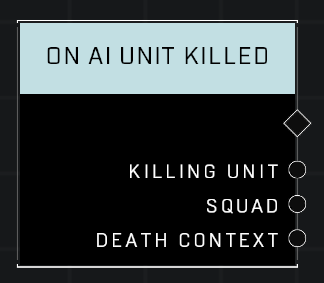
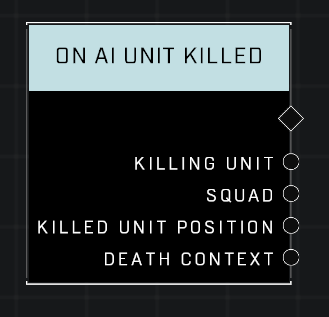
New nodes, Operation Infinite (2025-11-18)
New nodes and their pages, as well as added properties and new images for existing nodes that changed in the update. Summary also updated. Found and fixed one typo on an existing page.

diff --git a/scripting/nodes/variables-advanced/object-list-variable.md b/scripting/nodes/variables-advanced/object-list-variable.md
@@ -67,6 +67,36 @@ Nodes fall into two basic categories: Data and Execution. This node supplies Dat
 
 ***
 
+## Get Object List Variable Without Refresh
+
+![](../../../.gitbook/assets/get-object-list-variable-without-refresh.png)
+
+## Description
+
+This node works similarly to **Get Object List Variable**. This version of the node is meant to be used with objects created through the **Spawn Mode Object** node, particularly when an object reference is used to make multiple copies of an object, and they are later stored as variables.
+
+## Node Type
+
+Nodes fall into two basic categories: Data and Execution. This node supplies Data for an Execution node.
+
+## Inputs
+
+| Input      | Type   | Required | Description                                                          |
+| ---------- | ------ | -------- | -------------------------------------------------------------------- |
+| Identifier | String | Yes      | The custom string id for this variable.                              |
+| Scope      | Scope  | Yes      | Must match scope of declared variable with the same identifier.      |
+| Object     | Object | No       | Used to associate variable with an object when Object scope is used. |
+
+## Outputs
+
+| Output | Type        | Description                     |
+| ------ | ----------- | ------------------------------- |
+| Value  | Object List | Current value of this variable. |
+
+***
+
+***
+
 
 ## Set Object List Variable
 

diff --git a/scripting/nodes/variables-advanced/object-variable.md b/scripting/nodes/variables-advanced/object-variable.md
@@ -67,6 +67,36 @@ Nodes fall into two basic categories: Data and Execution. This node supplies Dat
 
 ***
 
+## Get Object Variable Without Refresh
+
+![](../../../.gitbook/assets/get-object-variable-without-refresh.png)
+
+## Description
+
+This node works similarly to **Get Object Variable**. This version of the node is meant to be used with objects created through the **Spawn Mode Object** node, particularly when an object reference is used to make multiple copies of an object, and they are later stored as variables.
+
+## Node Type
+
+Nodes fall into two basic categories: Data and Execution. This node supplies Data for an Execution node.
+
+## Inputs
+
+| Input      | Type   | Required | Description                                                          |
+| ---------- | ------ | -------- | -------------------------------------------------------------------- |
+| Identifier | String | Yes      | The custom string id for this variable.                              |
+| Scope      | Scope  | Yes      | Must match scope of declared variable with the same identifier.      |
+| Object     | Object | No       | Used to associate variable with an object when Object scope is used. |
+
+## Outputs
+
+| Output | Type   | Description                     |
+| ------ | ------ | ------------------------------- |
+| Value  | Object | Current value of this variable. |
+
+***
+
+***
+
 
 ## Set Object Variable
 

diff --git a/scripting/nodes/events-generic-objectives/on-generic-flag-zone-entered.md b/scripting/nodes/events-generic-objectives/on-generic-flag-zone-entered.md
@@ -1,7 +1,7 @@
-# On Generic Flag Spawned
-![](../../../.gitbook/assets/on-generic-flag-spawned.png)
+# On Generic Flag Zone Entered
+![](../../../.gitbook/assets/on-generic-flag-zone-entered.png)
 ## Description
-Event called whenever the *Generic Flag* has been spawned. This occurs after the incoming state completes.
+Event called whenever a player enters the *Generic Flag Zone*.
 
 ## Node Type
 Nodes fall into two basic categories: Data and Execution. This Execution node fires when something happens in the game that triggers it, and starts off the node string.
@@ -9,15 +9,17 @@ Nodes fall into two basic categories: Data and Execution. This Execution node fi
 ## Inputs
 | Input | Type | Required | Description |
 |------------------|------------------|----------|--------------------------------------------------------------|
-| Generic Flag Spawn | Generic Flag Spawn | Yes | Which object to listen when it's flag spawns. |
+| Generic Flag Spawn | Generic Flag Spawn | Yes | Which object to listen for player entering it's zone. |
 
 ## Outputs
 | Output | Type | Description |
 |------------------|------------------|--------------------------------------------------------------|
-| Flag | Object | The flag that spawned.|
+| Player | Object | Which player entered the zone.|
+| Flag | Object | The flag whose zone was entered.|
 
 \
 \
 **Contributors**
 
-AddiCt3d 2CHa0s
+AddiCt3d 2CHa0s\
+Okom

diff --git a/scripting/nodes/events-generic-objectives/on-generic-flag-zone-exited.md b/scripting/nodes/events-generic-objectives/on-generic-flag-zone-exited.md
@@ -1,7 +1,7 @@
-# On Generic Flag Spawned
-![](../../../.gitbook/assets/on-generic-flag-spawned.png)
+# On Generic Flag Zone Exited
+![](../../../.gitbook/assets/on-generic-flag-zone-exited.png)
 ## Description
-Event called whenever the *Generic Flag* has been spawned. This occurs after the incoming state completes.
+Event called whenever a player exits the *Generic Flag Zone*.
 
 ## Node Type
 Nodes fall into two basic categories: Data and Execution. This Execution node fires when something happens in the game that triggers it, and starts off the node string.
@@ -9,15 +9,17 @@ Nodes fall into two basic categories: Data and Execution. This Execution node fi
 ## Inputs
 | Input | Type | Required | Description |
 |------------------|------------------|----------|--------------------------------------------------------------|
-| Generic Flag Spawn | Generic Flag Spawn | Yes | Which object to listen when it's flag spawns. |
+| Generic Flag Spawn | Generic Flag Spawn | Yes | Which object to listen for when a player enters it's zone. |
 
 ## Outputs
 | Output | Type | Description |
 |------------------|------------------|--------------------------------------------------------------|
-| Flag | Object | The flag that spawned.|
+| Player | Object | Which player exited the zone.|
+| Flag | Object | The flag whose zone was exited.|
 
 \
 \
 **Contributors**
 
-AddiCt3d 2CHa0s
+AddiCt3d 2CHa0s\
+Okom

diff --git a/SUMMARY.md b/SUMMARY.md
@@ -407,6 +407,8 @@
     * [On Generic Flag Reset](scripting/nodes/events-generic-objectives/on-generic-flag-reset.md)
     * [On Generic Flag Scored](scripting/nodes/events-generic-objectives/on-generic-flag-scored.md)
     * [On Generic Flag Spawned](scripting/nodes/events-generic-objectives/on-generic-flag-spawned.md)
+    * [On Generic Flag Zone Entered](scripting/nodes/events-generic-objectives/on-generic-flag-zone-entered.md)
+    * [On Generic Flag Zone Exited](scripting/nodes/events-generic-objectives/on-generic-flag-zone-exited.md)
     * [On Generic Skull Dropped](scripting/nodes/events-generic-objectives/on-generic-skull-dropped.md)
     * [On Generic Skull Pickup](scripting/nodes/events-generic-objectives/on-generic-skull-pickup.md)
     * [On Generic Zone Capture Complete](scripting/nodes/events-generic-objectives/on-generic-zone-capture-complete.md)

diff --git a/scripting/nodes/events-ai/on-ai-unit-killed.md b/scripting/nodes/events-ai/on-ai-unit-killed.md
@@ -17,10 +17,12 @@ Nodes fall into two basic categories: Data and Execution. This Execution node fi
 |------------------|------------------|--------------------------------------------------------------|
 | Killing Unit | Object | The Unit that killed this AI |
 | Squad | Squad | Which Squad the killed AI belongs to. |
+| Killed Unit Position | Vector3 | The position unit died at. |
 | Death Context | Death Context | How the AI died. |
 
 \
 \
 **Contributors**
 
-AddiCt3d 2CHa0s
+AddiCt3d 2CHa0s\
+Okom
